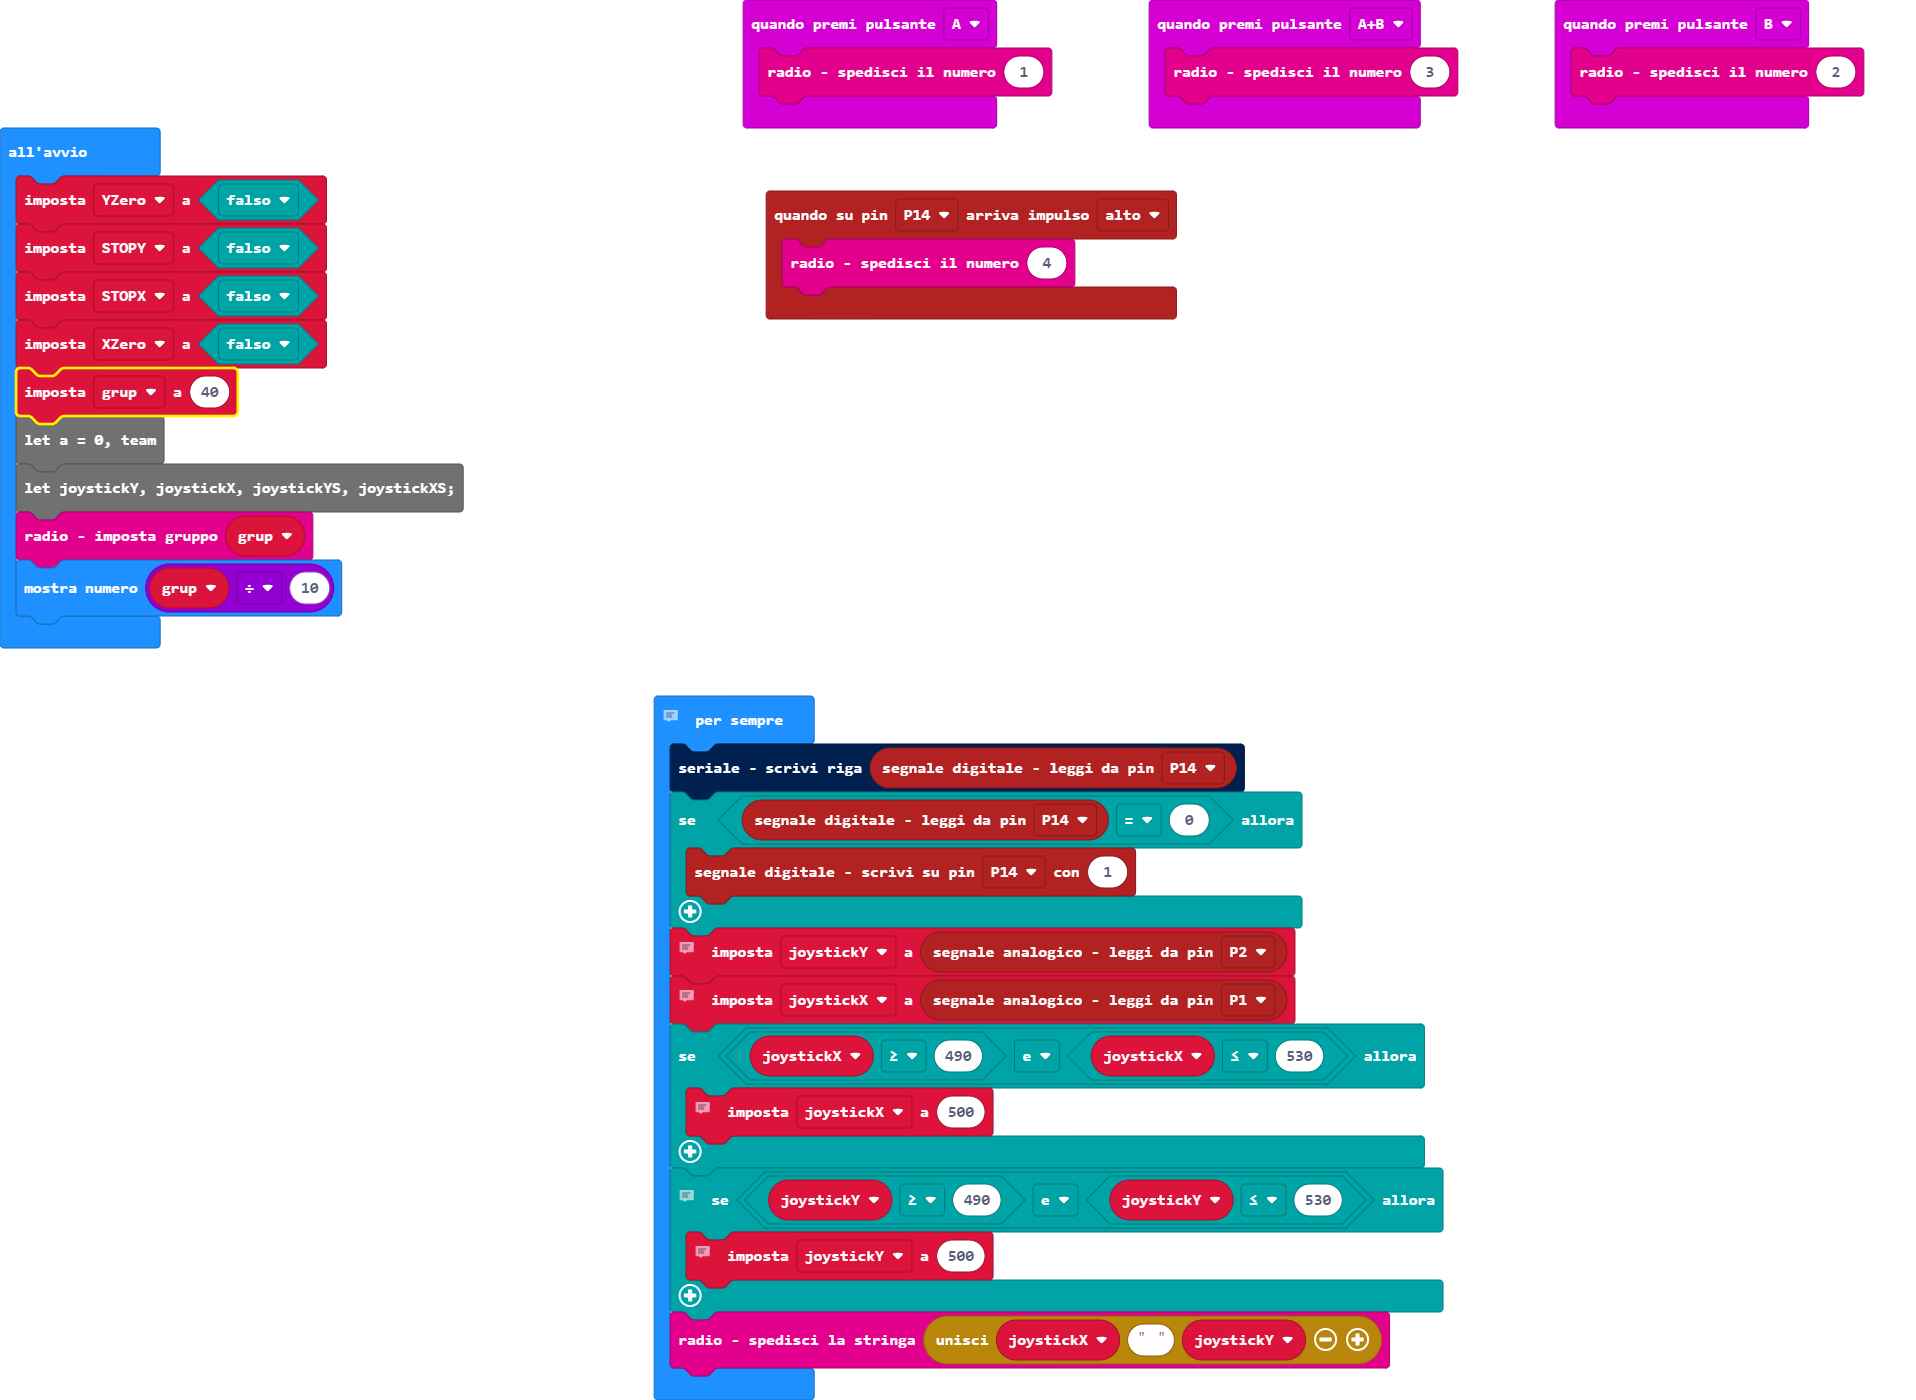
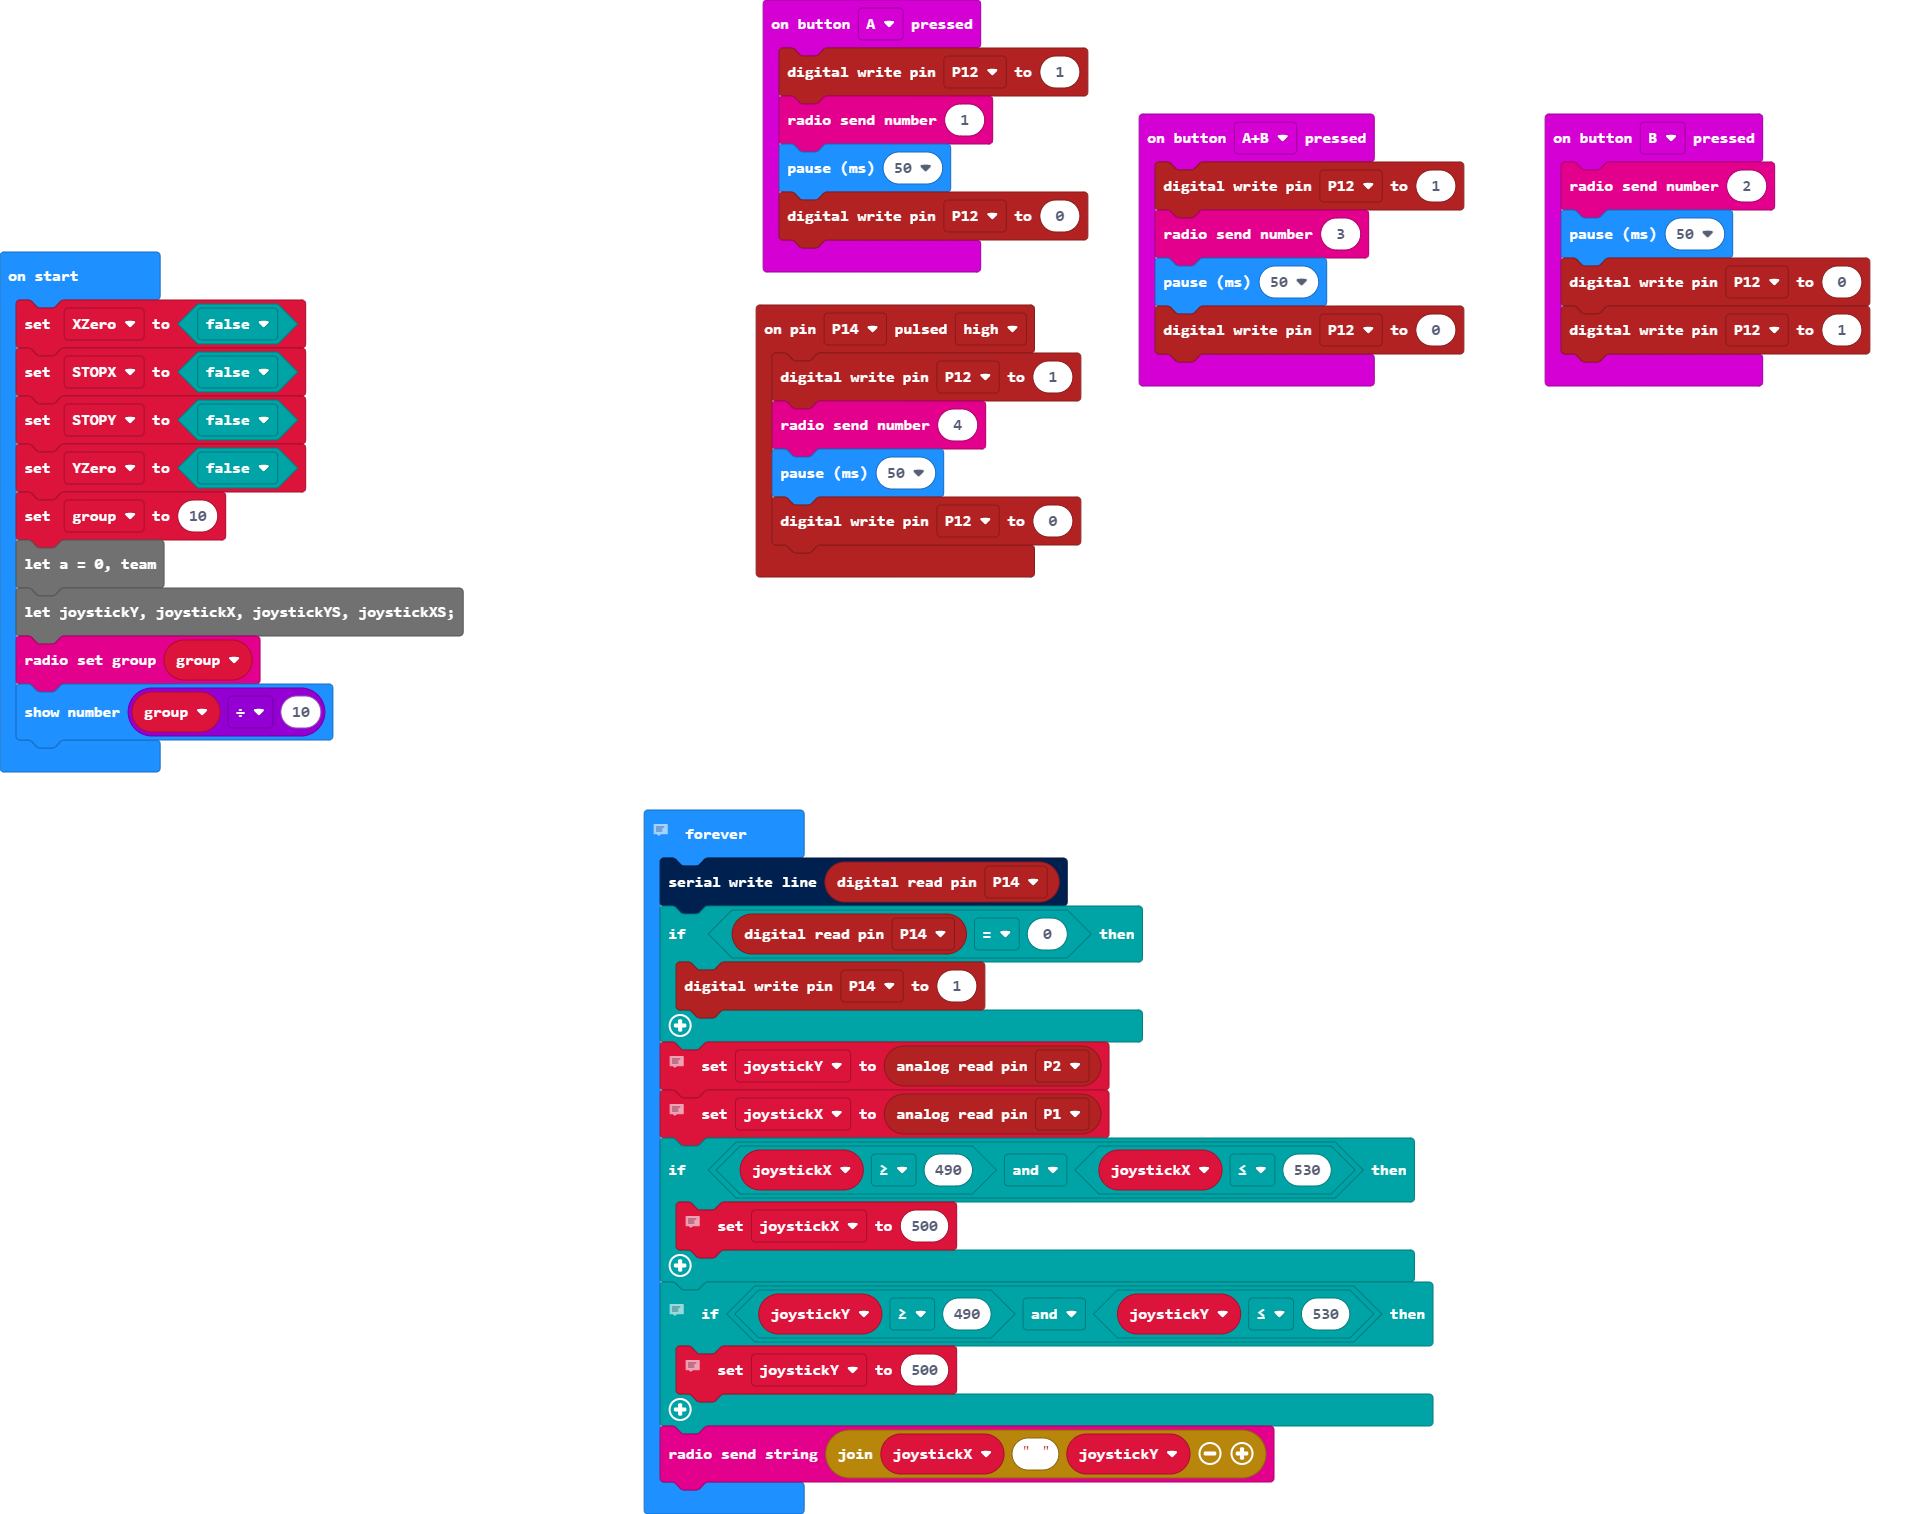
add vibratyion feedback

diff --git a/main.ts b/main.ts
@@ -1,24 +1,36 @@
 pins.onPulsed(DigitalPin.P14, PulseValue.High, function () {
+    pins.digitalWritePin(DigitalPin.P12, 1)
     radio.sendNumber(4)
+    basic.pause(50)
+    pins.digitalWritePin(DigitalPin.P12, 0)
 })
 input.onButtonPressed(Button.A, function () {
+    pins.digitalWritePin(DigitalPin.P12, 1)
     radio.sendNumber(1)
+    basic.pause(50)
+    pins.digitalWritePin(DigitalPin.P12, 0)
 })
 input.onButtonPressed(Button.AB, function () {
+    pins.digitalWritePin(DigitalPin.P12, 1)
     radio.sendNumber(3)
+    basic.pause(50)
+    pins.digitalWritePin(DigitalPin.P12, 0)
 })
 input.onButtonPressed(Button.B, function () {
     radio.sendNumber(2)
+    basic.pause(50)
+    pins.digitalWritePin(DigitalPin.P12, 0)
+    pins.digitalWritePin(DigitalPin.P12, 1)
 })
-let YZero = false
-let STOPY = false
-let STOPX = false
 let XZero = false
-let grup = 40
+let STOPX = false
+let STOPY = false
+let YZero = false
+let group = 10
 let a = 0, team
 let joystickY, joystickX, joystickYS, joystickXS;
-radio.setGroup(grup)
-basic.showNumber(grup / 10)
+radio.setGroup(group)
+basic.showNumber(group / 10)
 // to check if there is a connection
 // this is used to have a static number, after "1020"
 // the value will result 1023.
